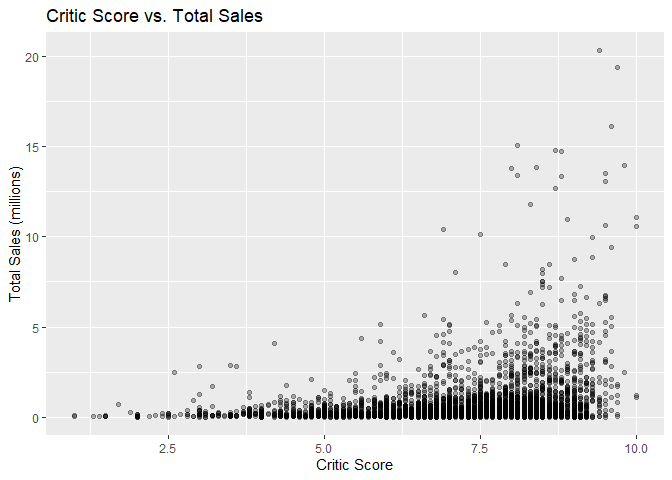
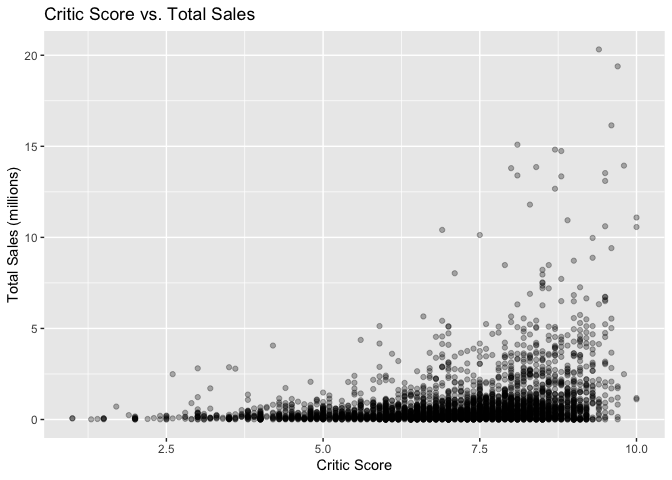
charts

diff --git a/README.md b/README.md
@@ -252,7 +252,7 @@ ggplot(regional_sales, aes(x= reorder(region, sales), y = sales, fill = region))
 
 ![](README_files/figure-html/unnamed-chunk-7-1.png)<!-- -->
 
-From the chart we can see the North America has the largest market for video games with around 1.5 billion total sales, next is Europe and Australia with around 1 billion. 
+From the chart we can see that North America has the largest market for video games with around 1.5 billion total sales, next is Europe and Australia with around 1 billion. 
 
 ## Sales by game size category
 
@@ -277,7 +277,8 @@ ggplot(all_games, aes(x = sales_category, fill = sales_category))+
 ```
 
 ![](README_files/figure-html/unnamed-chunk-8-1.png)<!-- -->
-`
+## score by game size
+
 
 ``` r
 ggplot(all_games, aes(x = sales_category, y = critic_score, fill = sales_category)) +